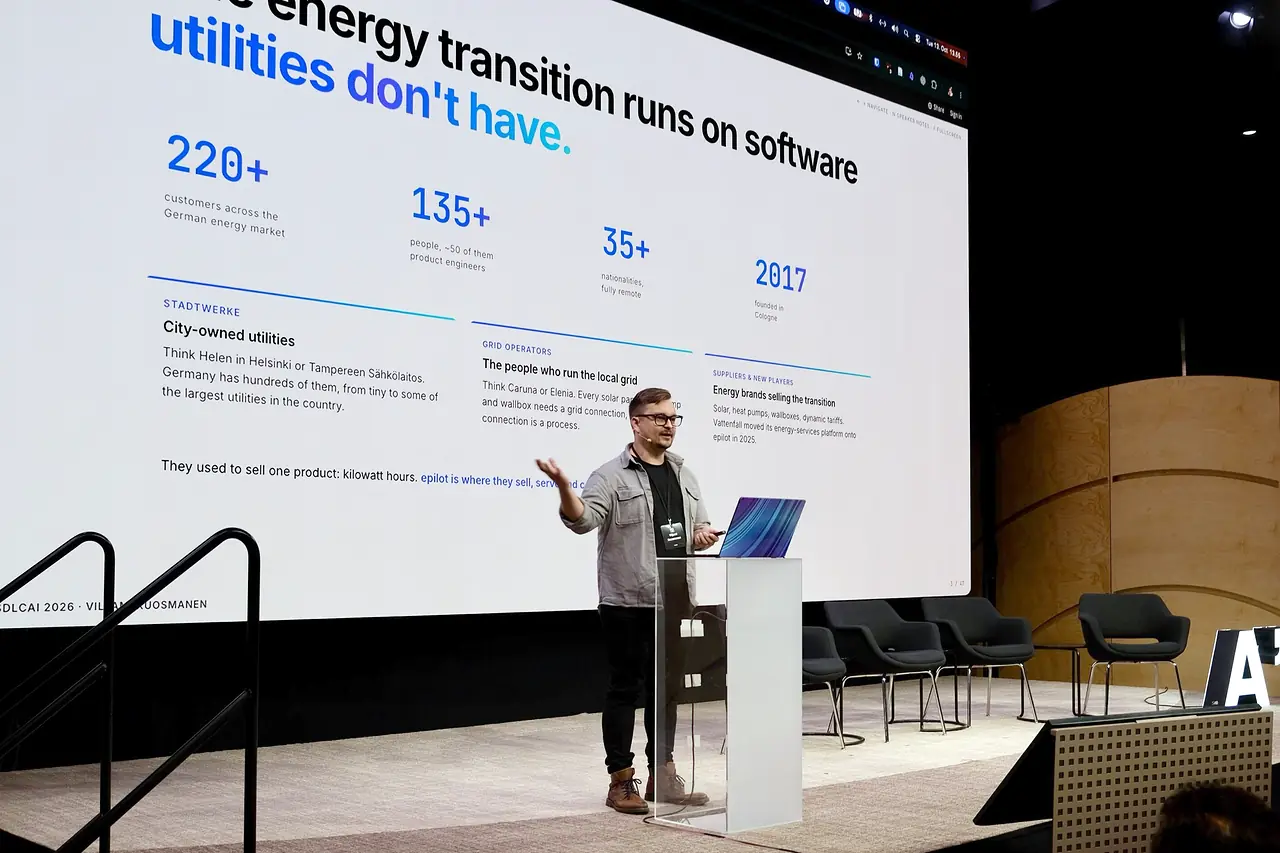
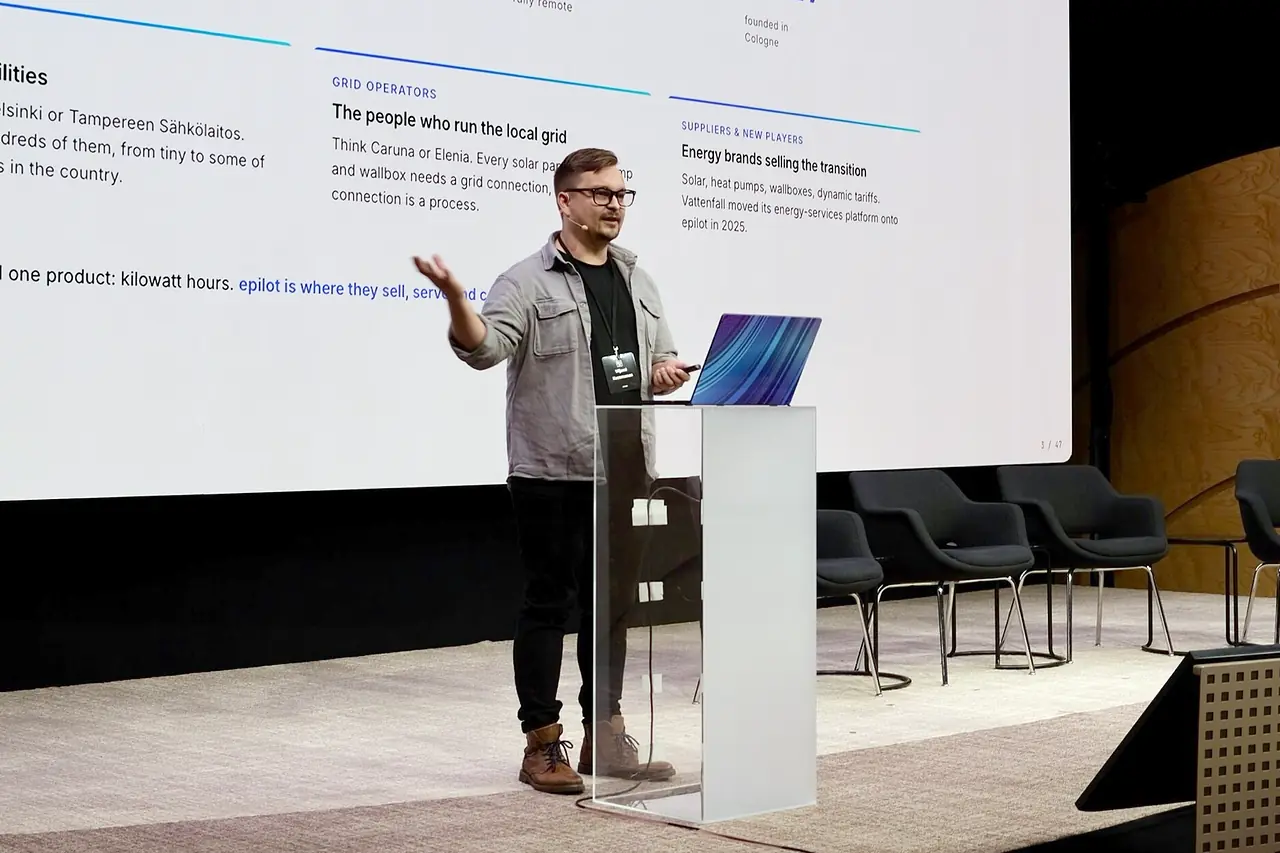
Variant: tighter crop on the stage photo
Claude-Session: https://claude.ai/code/session_01N1QyBQ1FYZUEBNGkMKXsyh

diff --git a/public/style.css b/public/style.css
@@ -113,7 +113,7 @@ a:hover {
   height: auto;
   aspect-ratio: 3 / 2;
   object-fit: cover;
-  object-position: 55% 50%;
+  object-position: 47% 50%;
 }
 
 .stage figcaption {
